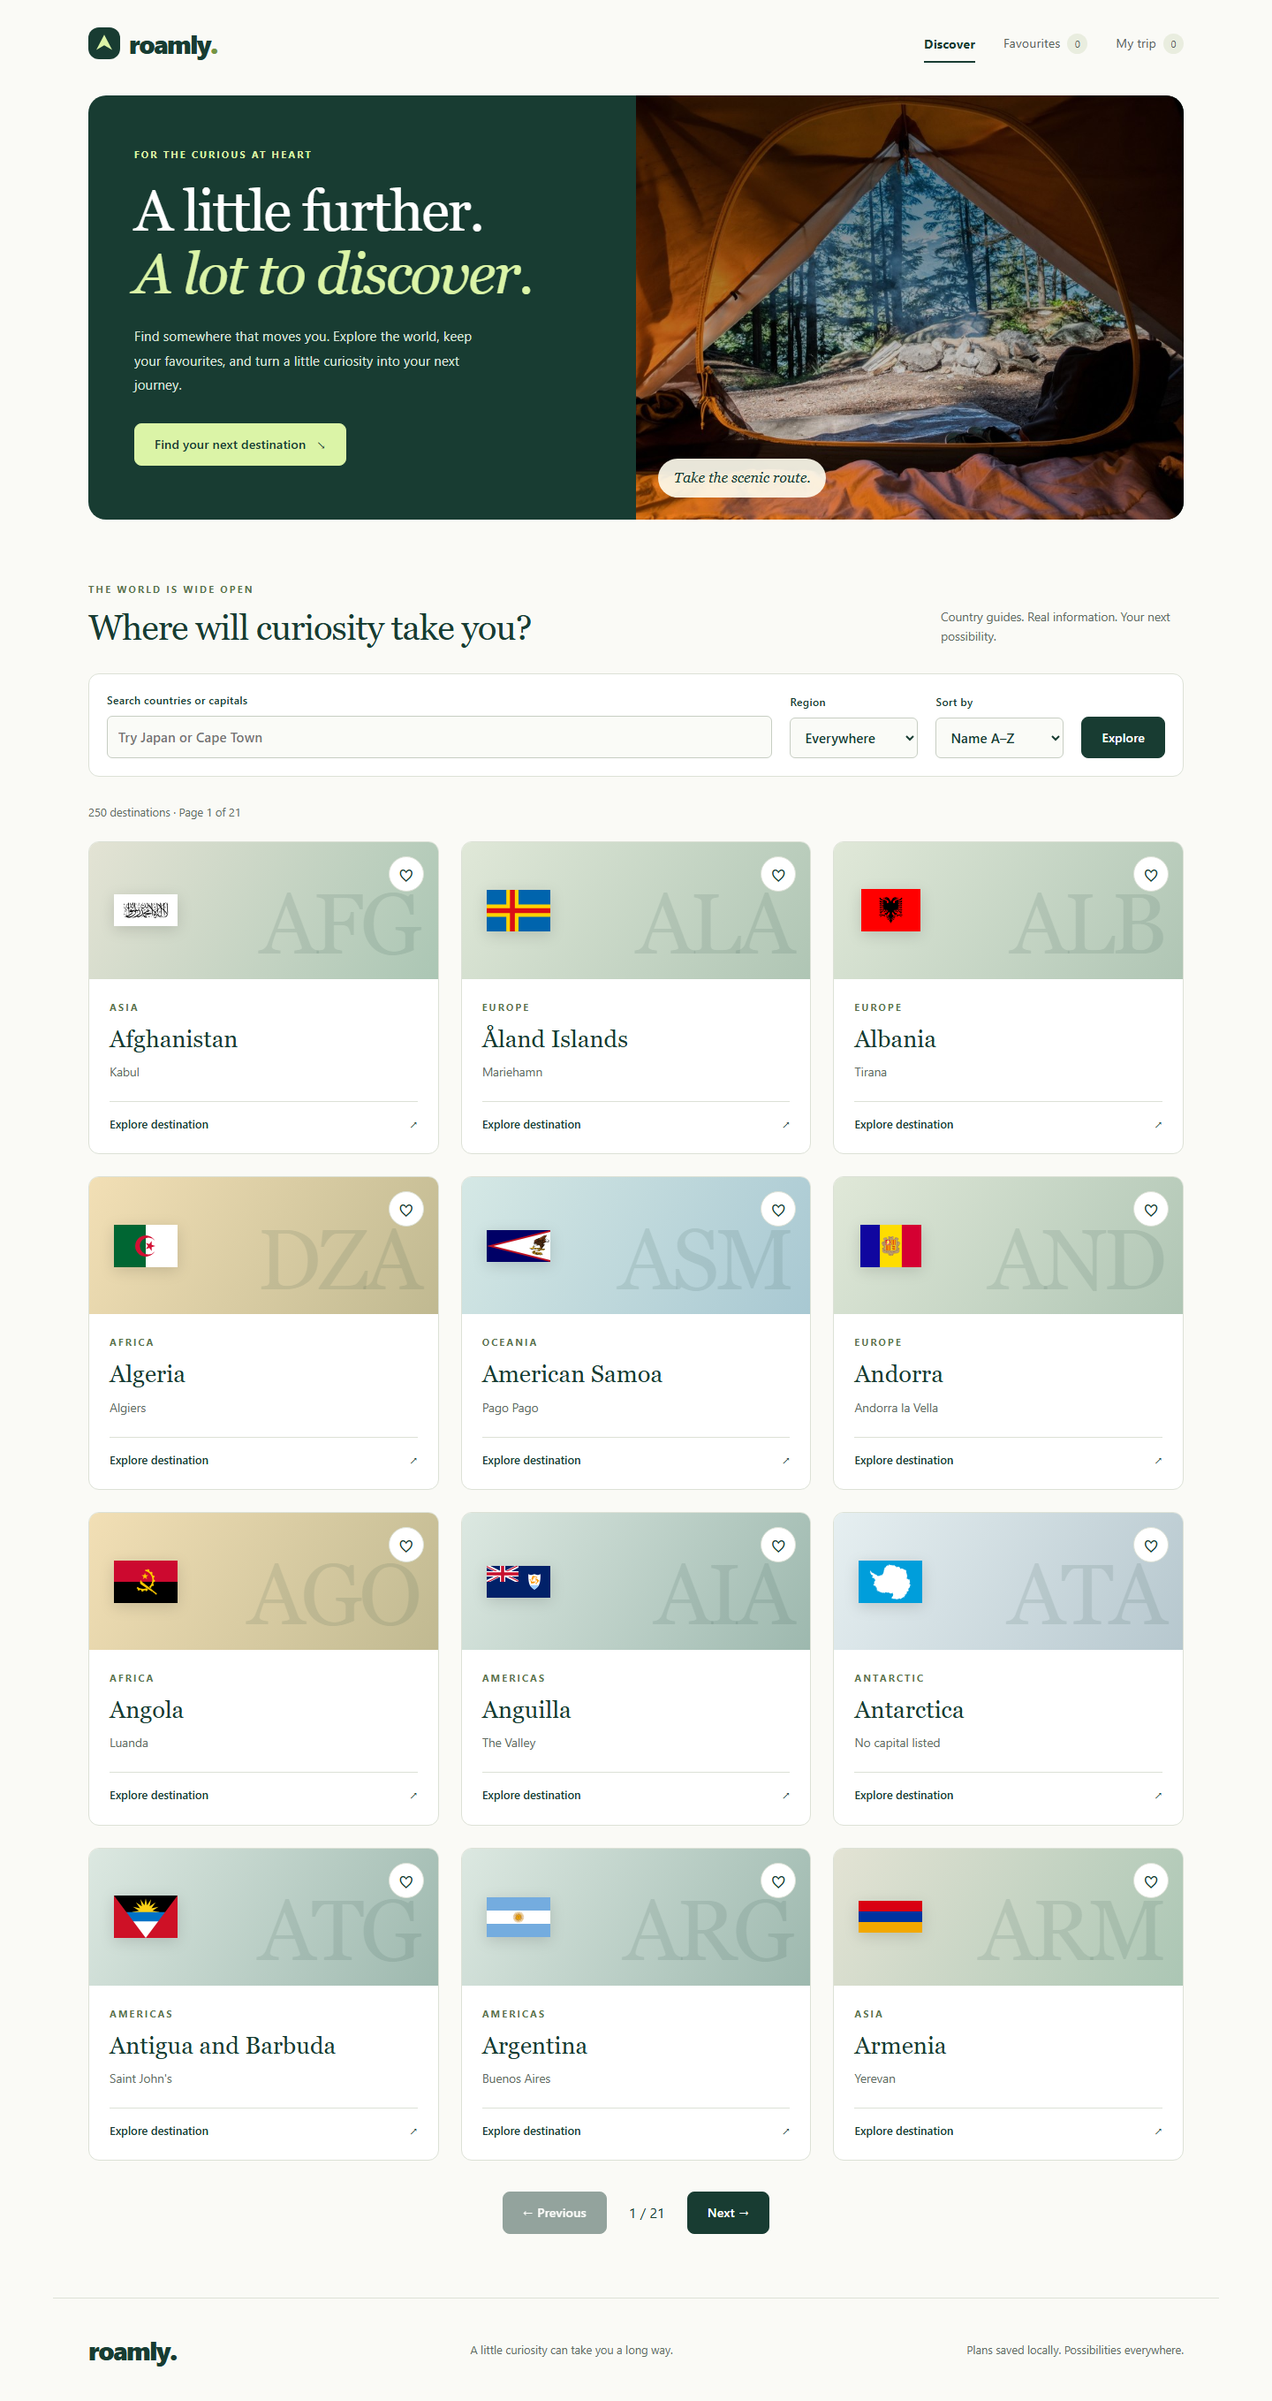
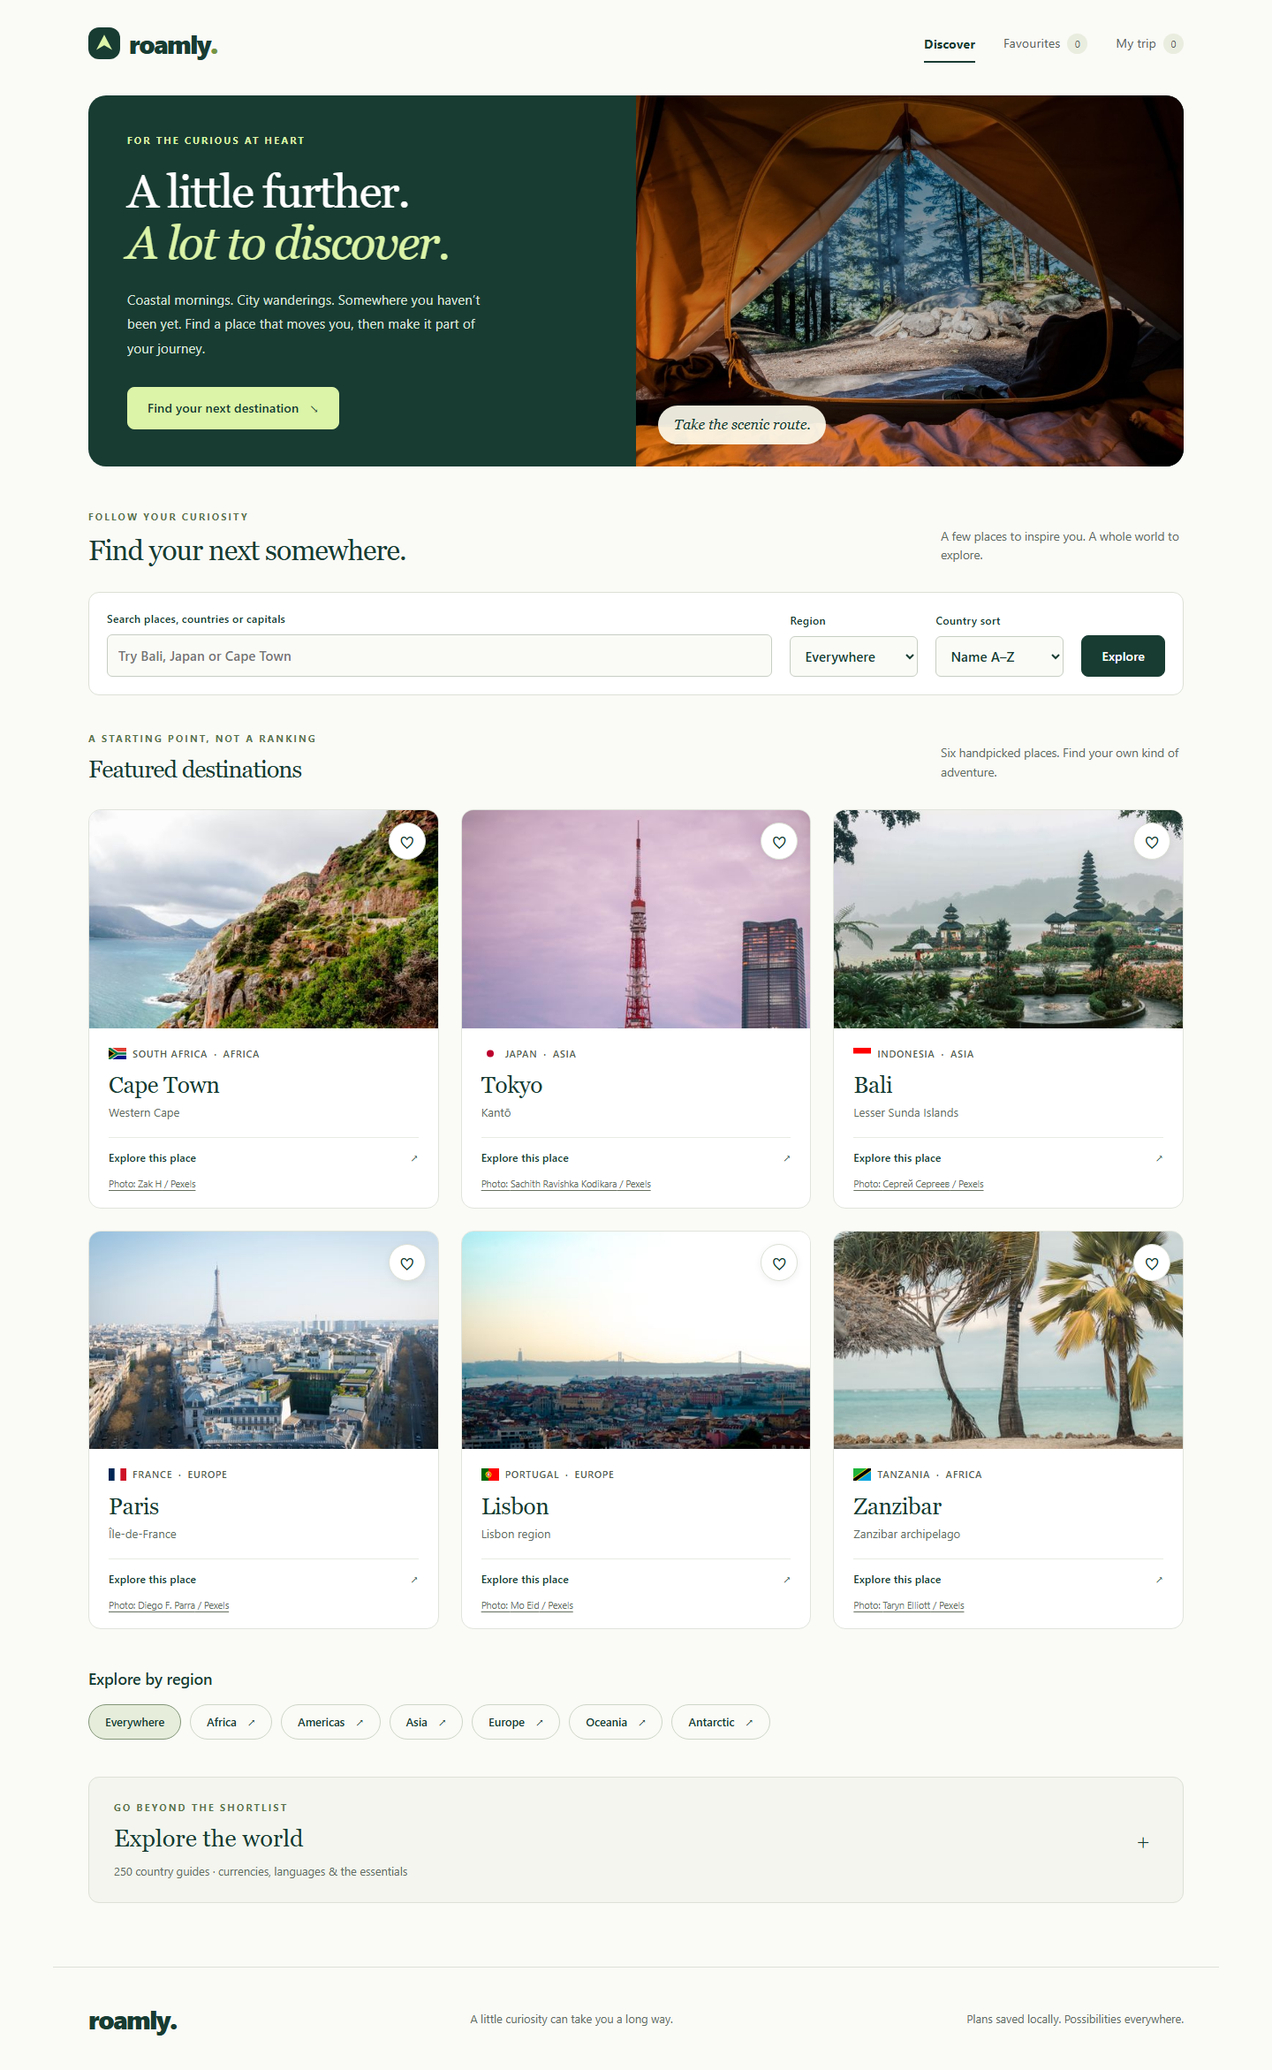
docs: document photography rights and refresh discovery previews

diff --git a/README.md b/README.md
@@ -8,8 +8,9 @@ The migration from Next.js is deliberate: the application relies on public brows
 
 ## Features
 
+- Discover six curated travel places with locally hosted destination photography, small flag metadata, and an expandable country catalogue.
 - Explore country guides backed by real public metadata, including flags, capitals, languages, currencies, population, time zones, and coordinates.
-- Search countries and capitals, filter regions, sort, and paginate. Submitted filters live in the URL and work with bookmarks and browser history.
+- Search places, countries and capitals, filter regions, and sort/paginate country guides. Submitted filters live in the URL and work with bookmarks and browser history.
 - Save favourites and return to a personal shortlist.
 - View modelled current weather with Celsius temperatures and km/h wind, independent loading, retry, and unavailable states.
 - Build an itinerary, edit dates and notes, reorder with keyboard-accessible buttons, remove stops, and view planned nights and calendar span.
@@ -22,7 +23,7 @@ Captured from the production preview with live country and weather APIs on 6 Oct
 
 ![Discovery on desktop](docs/screenshots/discovery-desktop.png)
 
-[Destination guide](docs/screenshots/destination-desktop.png) · [Trip planner](docs/screenshots/trip-desktop.png) · [Mobile discovery](docs/screenshots/discovery-mobile.png)
+[Place guide](docs/screenshots/place-desktop.png) · [Country guide](docs/screenshots/destination-desktop.png) · [Trip planner](docs/screenshots/trip-desktop.png) · [Mobile discovery](docs/screenshots/discovery-mobile.png)
 
 ## Architecture
 
@@ -43,7 +44,7 @@ src/
   styles.css                   Responsive CSS and visual identity
 ```
 
-React Router owns `/`, `/destinations/:countryCode`, `/favourites`, `/trip`, and the unmatched-route fallback. Route modules load on demand. Route errors have reload and home actions; navigation updates the document title and moves focus to the main landmark. No Next.js imports, Server Components, server routes, or framework hydration remain. All components run in the browser.
+React Router owns `/`, `/places/:destinationSlug`, `/destinations/:countryCode`, `/favourites`, `/trip`, and the unmatched-route fallback. Route modules load on demand. Route errors have reload and home actions; navigation updates the document title and moves focus to the main landmark. No Next.js imports, Server Components, server routes, or framework hydration remain. All components run in the browser.
 
 ### State ownership
 
@@ -62,7 +63,7 @@ There is no Redux. Two small shared collections do not justify a store, middlewa
 
 Country and weather adapters receive `unknown`, validate essential fields, and map external shapes to domain types. Invalid optional metadata degrades to missing values; unusable country records are discarded, and an entirely unusable payload is an error. Weather unit mismatches or malformed essential fields are rejected. API calls have a 15-second timeout, cancellation, HTTP error mapping, and one retry.
 
-The single country query is fresh for 24 hours and retained for 24 hours when inactive. Discovery and detail pages share it, so opening a guide usually needs no second country request. The bounded dataset contains around 250 countries/territories; only 12 cards render per page. Weather is keyed by coordinates, fresh for 10 minutes, and retained for 30 minutes when inactive. Stale active queries can refetch on focus/reconnect. Query caching is in memory, not persistent/offline storage; HTTP caching still follows upstream headers.
+The single country query is fresh for 24 hours and retained for 24 hours when inactive. Discovery and detail pages share it, so opening a guide usually needs no second country request. The bounded reference dataset contains around 250 countries/territories; only 12 compact country rows render per page, in an expandable catalogue. A separate editorial collection of six places leads discovery; it is not inferred from country data. Weather is keyed by coordinates, fresh for 10 minutes, and retained for 30 minutes when inactive. Stale active queries can refetch on focus/reconnect. Query caching is in memory, not persistent/offline storage; HTTP caching still follows upstream headers.
 
 Country errors show a retry action. A background failure can show cached data. Weather has a separate error state so the guide stays usable. Weather is fetched after country coordinates are known; that dependency is necessary, and no weather requests run for listing cards.
 
@@ -84,9 +85,13 @@ Flag images come from HTTPS URLs in country metadata (currently FlagCDN). Metada
 
 ### Weather
 
-[Open-Meteo forecast documentation](https://open-meteo.com/en/docs) defines the keyless `/v1/forecast` endpoint and current `temperature_2m`, `wind_speed_10m`, and `weather_code` variables. Roamly requests explicit units and GMT timestamps at the country coordinates. This is a country-location weather model estimate, not necessarily capital-city conditions.
+[Open-Meteo forecast documentation](https://open-meteo.com/en/docs) defines the keyless `/v1/forecast` endpoint and current `temperature_2m`, `wind_speed_10m`, and `weather_code` variables. Roamly requests explicit units and GMT timestamps at the country coordinates. Country guides use country coordinates; curated place guides use approximate place coordinates. These are model estimates, not observations or exact-address forecasts.
 
 The [free API terms](https://open-meteo.com/en/pricing) apply to noncommercial use, with 10,000 daily calls, 5,000 hourly calls, and 600 calls per minute and no uptime guarantee. Attribution links appear in the UI. Commercial use needs the appropriate licence and a different deployment boundary for any private key. No API keys or environment variables are needed for this portfolio application.
+
+### Destination photography
+
+Six curated Pexels photographs are downloaded and served locally in 480/960 px variants, with responsive image selection, credits, and an intentional illustration if a photo fails. No photography API, key, backend, or runtime photo CDN dependency is required. See [photography sources and rights](docs/photography.md). Place and country models are separate; existing favourites and trips continue to save countries.
 
 ## Tech stack
 
@@ -150,7 +155,7 @@ On Linux CI, install Chromium system dependencies with `npx playwright install -
 
 Unit/interaction tests exercise real mappings, invalid data, API errors, URL filtering, pagination bounds, favourite toggling, corrupt/inaccessible storage, trip dates, and immutability. Browser tests intercept upstream APIs with explicitly labelled fixtures for deterministic discovery, retries, weather isolation, favourite persistence, trip editing/reordering/removal, reloads, bookmarks, history, unavailable storage, unknown routes, and axe WCAG checks. Tests do not depend on live weather or create fake data in the application. A separate live-browser smoke check verified the real APIs and generated screenshots.
 
-Validation on 6 October 2026: clean `npm ci`, formatting, lint, strict typecheck, 19 unit/interaction tests, production build, 10 desktop/mobile browser tests, and `npm audit` all passed. The audit reported zero vulnerabilities. The production entry is approximately 109 KB gzip; lazy routes load separately. Repository scans found no Next.js imports/dependency, environment files, unused public assets, or common secret patterns.
+Validation on 6 October 2026: clean `npm ci`, formatting, lint, strict typecheck, 22 unit/interaction tests, production build, 12 desktop/mobile browser tests, and `npm audit` all passed. The audit reported zero vulnerabilities. The production entry is approximately 109 KB gzip; lazy routes load separately. Repository scans found no Next.js imports/dependency, environment files, unused public assets, or common secret patterns.
 
 In an execution sandbox on Windows, Playwright must be allowed to terminate its own preview process tree. Restricted process permissions can delay teardown even when assertions pass; normal local execution and the Linux CI workflow do not need that sandbox permission.
 
@@ -168,7 +173,7 @@ The [decision log](docs/engineering-decisions.md) covers Next.js-to-Vite migrati
 
 - Client-side rendering has limited route-specific SEO/social previews and requires JavaScript. No SSR, PWA/offline guarantees, authentication, booking, or cross-device sync.
 - Country API availability and data freshness depend on a public mirror. Browser caching cannot repair an upstream outage after a fresh load.
-- Weather uses country coordinates; city geocoding and forecast ranges are future extensions.
+- Country guides use country coordinates; place guides use curated approximate coordinates. City geocoding and forecast ranges are future extensions.
 - One itinerary, one stop per country, last-writer-wins browser storage; no conflict resolution or export/import. Unsaved editor drafts are discarded when leaving the route.
 - Dates may overlap and leave gaps. The summary explains the distinction between summed nights and overall calendar span; it does not validate travel feasibility.
 - Browser automation covers Chromium desktop/mobile viewports, not real devices, WebKit, or Firefox. Asset provenance is inherited from the original repository; licensing should be confirmed before commercial publication.

diff --git a/docs/photography.md b/docs/photography.md
@@ -1,0 +1,22 @@
+# Destination photography
+
+Roamly uses a manually curated, locally hosted photo collection. No photography API, browser credential, runtime CDN dependency, random-image endpoint, or backend was introduced. Photographs were selected from verified Pexels photo pages and downloaded under the [Pexels licence](https://www.pexels.com/license/) on 6 October 2026. It permits free personal/commercial use and modification, without required attribution; Roamly still credits each photographer with a link to the photo page. Images are not resold or represented as Roamly's own photography.
+
+| Place     | Photographer              | Source photo                                                                                                      | Local asset prefix |
+| --------- | ------------------------- | ----------------------------------------------------------------------------------------------------------------- | ------------------ |
+| Cape Town | Zak H                     | [Cape Town coastline](https://www.pexels.com/photo/scenic-cape-town-coastline-with-table-mountain-view-33641515/) | `cape-town`        |
+| Tokyo     | Sachith Ravishka Kodikara | [Tokyo Tower at twilight](https://www.pexels.com/photo/tokyo-tower-over-buildings-in-city-19035816/)              | `tokyo`            |
+| Bali      | Сергей Сергеев            | [Balinese lakeside temple](https://www.pexels.com/photo/enchanting-bali-temple-amidst-lush-greenery-35160281/)    | `bali`             |
+| Paris     | Diego F. Parra            | [Paris and the Eiffel Tower](https://www.pexels.com/photo/paris-cityscape-with-eiffel-tower-15452269/)            | `paris`            |
+| Lisbon    | Mo Eid                    | [Lisbon skyline](https://www.pexels.com/photo/cityscape-of-lisbon-17887579/)                                      | `lisbon`           |
+| Zanzibar  | Taryn Elliott             | [Palm-lined Zanzibar shore](https://www.pexels.com/photo/palm-trees-on-the-beach-shore-5993367/)                  | `zanzibar`         |
+
+Each photo has compressed 480 px and 960 px wide JPEG copies in `public/destinations/`. Browsers select the appropriate variant using `srcset` and `sizes`. The card reserves a 16:10 frame, uses lazy loading and async decoding, and crops with CSS `object-fit: cover`; the Tokyo crop has an explicit focal position. The place detail uses the same assets. Photograph failure or an absent mapping renders a labelled CSS landscape illustration, never a flag hero or a broken image. Country guides use compact text/metadata rows without a photographic hero; a photo of a single place is not misrepresented as a photograph of its entire country.
+
+The `Destination` model is an editorial place record with its own slug, name, locality, approximate coordinates, and optional photograph. `countryCode` joins it to separate REST Countries reference metadata. Six places are featured as a handpicked collection, not a popularity ranking or a list inferred from every country. Names, descriptions, localities, and coordinates are curated application content; coordinates are approximate discovery locations, not addresses or geocoded results. No new remote destination-data API was introduced.
+
+Existing favourites and itineraries remain country-based and keep their storage schema. Place hearts save the associated country, with an explicit accessible name/tooltip; the country catalogue and place guide explain this scope. Place guides show weather near the curated place coordinates, while existing country guides retain country-coordinate weather. Expanding to multiple saved places in one country would require a deliberate persistence migration, rather than silently reinterpreting old saved country codes.
+
+## Why not a photography API?
+
+The [Pexels API](https://www.pexels.com/api/documentation/) requires authorization. The [Unsplash API](https://unsplash.com/documentation) adds access keys, API hotlinking/download tracking rules, and API-specific attribution requirements. Those workflows offer little value for a fixed, six-place editorial collection. Local assets have predictable availability and no runtime quota; the cost is manual curation and a larger static deployment. A growing catalogue could adopt a managed/licensed media library with secure ingestion and explicit rights metadata later.

diff --git a/docs/engineering-decisions.md b/docs/engineering-decisions.md
@@ -98,6 +98,20 @@ These decisions describe the implemented Roamly application. The original two Gi
 
 **Alternatives:** A design-system dependency, remote photo catalogue, manual vendor splitting, pervasive memoisation, or full list virtualisation.
 
-**Trade-offs:** SPA runtime libraries contribute an approximately 109 KB gzip entry bundle plus route chunks. Native image loading lacks automatic format negotiation and responsive variants. Cards use real flags and CSS artwork, rather than a per-country photographic collection.
+**Trade-offs:** SPA runtime libraries contribute an approximately 109 KB gzip entry bundle plus route chunks. Native image loading lacks automatic format negotiation. The original flag/CSS cards have since been replaced by the place photography strategy in decision 8, including responsive image variants; country reference guides retain small flags.
 
 **When I would reconsider it:** Measured interaction bottlenecks, slower-network requirements, a large catalogue, or a curated licensed photo library. Add responsive image variants, carefully selected prefetching, server pagination, and targeted memoisation based on profiling.
+
+## 8. Lead discovery with places, keep countries as reference
+
+**Context:** Flag heroes and oversized ISO codes made discovery resemble a directory. REST Countries provides geographic reference records, not a curated travel recommendation catalogue.
+
+**Decision:** Add a separate editorial `Destination` model and six named places joined to countries by `countryCode`. Lead the page with photograph-led place cards, URL-backed place/country search, region controls, and an expandable, compact country reference catalogue. Add `/places/:destinationSlug` guides while preserving existing country routes, saved favourites, and trip storage. Use locally served, licensed Pexels photography and an intentional CSS landscape fallback.
+
+**Why:** Place names and photographs make exploration concrete without pretending every country record is a destination recommendation. Country metadata still supports planning. Local media avoids API credentials, runtime availability/quotas, and an unnecessary backend. Image rights, credits, sizing, and the curation process are documented in [photography](photography.md).
+
+**Alternatives:** Live stock-photo search, country flags as hero fallback, randomly assigned landscape URLs, or replacing saved country identifiers with place slugs. These introduce rights/availability ambiguity, the wrong visual hierarchy, or incompatible persistence changes.
+
+**Trade-offs:** The editorial catalogue is deliberately small and manually maintained. Country sorting applies to reference guides, not editorial order. Existing hearts and trips remain country-based; labels and place guides explicitly explain that scope. Curated places and local images remain discoverable during a country API outage, but detailed country metadata still requires the existing service. Card weather is omitted to avoid a request per card or presenting country-coordinate weather as local. Place guides request weather at approximate place coordinates.
+
+**When I would reconsider it:** A larger city catalogue, multiple stops/favourites in the same country, editorial workflows, or richer local recommendations. Introduce versioned place persistence and managed media ingestion when those product requirements justify them; retain old country records with explicit migration semantics.
